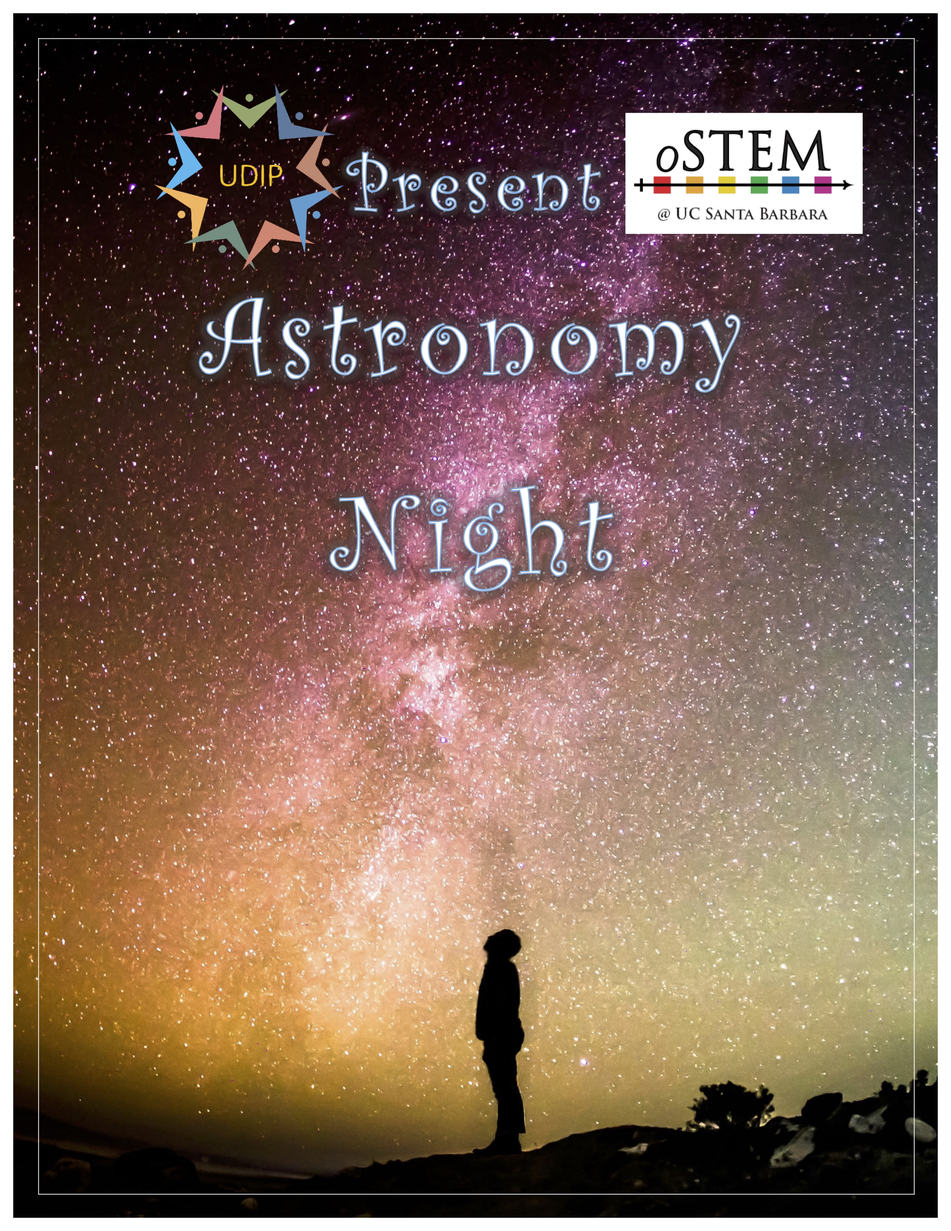
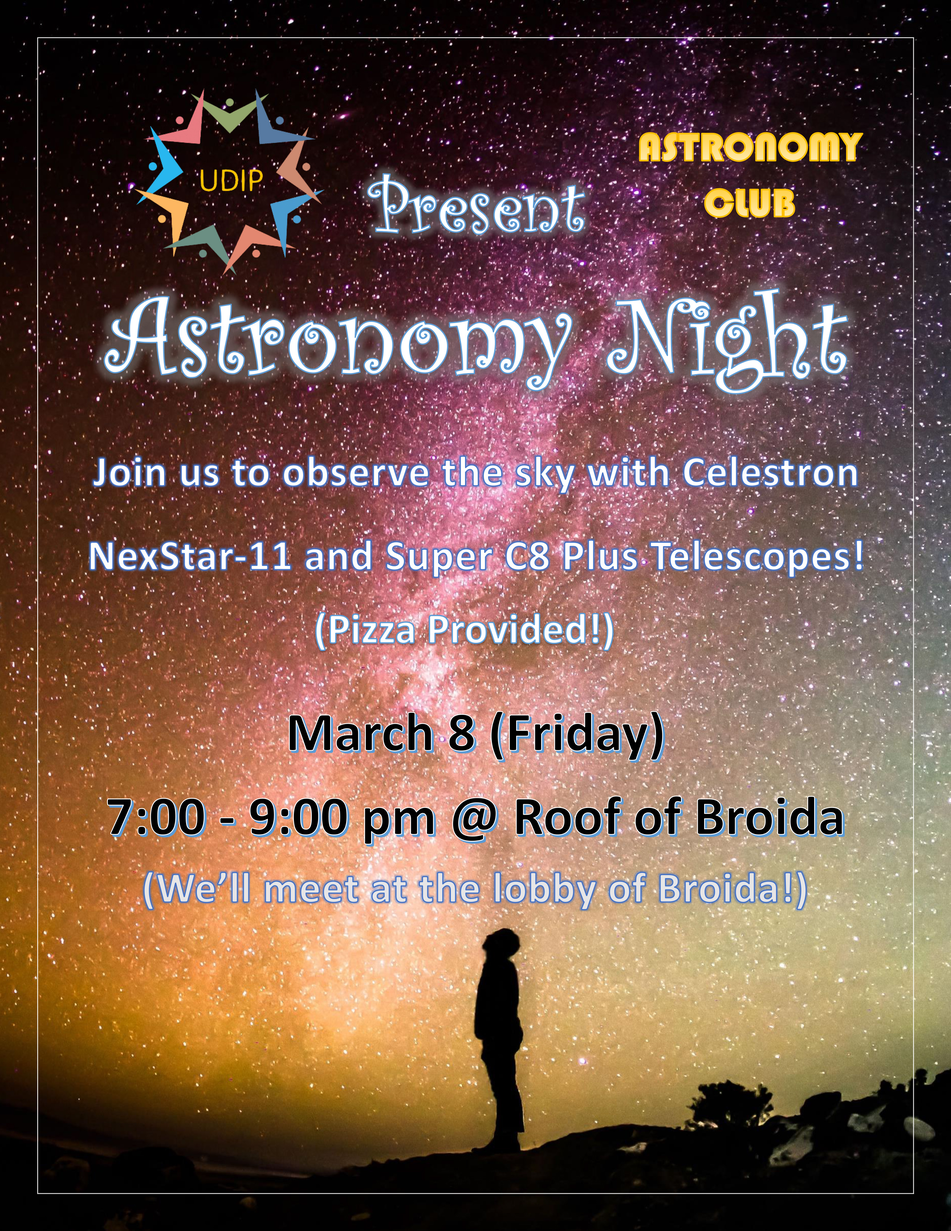
fixed astronomy night, fixed News

diff --git a/public_html/events.html b/public_html/events.html
@@ -103,16 +103,16 @@
 	        	<div class="col-md-4 themed-grid-col">
 		        	<img class="news1-image" src="images/PHSW19.jpg" alt="phs" width="100%">
 		        	<p><br><strong>Thursdays, February 7th - March 7th<br>5:00pm - 6:30pm<br></strong>
-	        		<br>Develop an efficient coding workflow that prepares you for physics research, graduate school, or industry. In six 90-minute sessions, the PHS will teach productive programming practices in an informal setting, and produce a streamlined computing environment for file system navigation (bash), text editing (vim), numerical simulations (python), and report typesetting (LaTeX). All operating systems welcome (if using Windows 10, install Windows Subsystem for Linux before the meeting). All physics undergraduates welcome, especially freshmen/sophomore students that want to learn computing tools relevant for research.<br><br>Want a sneak peek of material, miss a week's lesson, or want to follow along on your own? All PHS guides are self-contained and freely available at <a href="github.com/erijones/phs">github.com/erijones/phs.</a><br><br>Questions?
+	        		<br>Develop an efficient coding workflow that prepares you for physics research, graduate school, or industry. In six 90-minute sessions, the PHS will teach productive programming practices in an informal setting, and produce a streamlined computing environment for file system navigation (bash), text editing (vim), numerical simulations (python), and report typesetting (LaTeX). All operating systems welcome (if using Windows 10, install Windows Subsystem for Linux before the meeting). All physics undergraduates welcome, especially freshmen/sophomore students that want to learn computing tools relevant for research.<br><br>Want a sneak peek of material, miss a week's lesson, or want to follow along on your own? All PHS guides are self-contained and freely available at <a href="https://github.com/erijones/phs">github.com/erijones/phs.</a><br><br>Questions?
 				    <a href="ewj@physics.ucsb.edu" target="_blank" class="btn btn-sm btn-primary">Email now!</a><br></p>
-				</div>
-		        <div class="col-md-4 themed-grid-col">
-		        	<img class="news1-image" src="images/udipwip.jpg" alt="udipwip" width="100%">
-		        	<p><br><strong>Monday, February 25th</strong><br><br><br>Do you have plans for after college? Questions about graduate school? Going into Industry? Totally lost? Want to discuss these questions in an informal, friendly setting with UCSB graduate students who have been through it all? Just want to get to know some other grads or undergrads?<br><br>Then come to the UDIP grad-undergrad student mixer!<br><br>This quarter there will be a mixer for graduate and undergraduate students. This is an excellent opportunity to meet and mingle with the brightest minds UCSB has to offer! There will be activities and free food!<br></p>
-				    </div>
+				  </div>
+	        <div class="col-md-4 themed-grid-col">
+	        	<img class="news1-image" src="images/udipwip.jpg" alt="udipwip" width="100%">
+	        	<p><br><strong>Monday, February 25th</strong><br><br><br>Do you have plans for after college? Questions about graduate school? Going into Industry? Totally lost? Want to discuss these questions in an informal, friendly setting with UCSB graduate students who have been through it all? Just want to get to know some other grads or undergrads?<br><br>Then come to the UDIP grad-undergrad student mixer!<br><br>This quarter there will be a mixer for graduate and undergraduate students. This is an excellent opportunity to meet and mingle with the brightest minds UCSB has to offer! There will be activities and free food!<br></p>
+			    </div>
 			    <div class="col-md-4 themed-grid-col">
 		        	<img class="news1-image" src="images/udipastro.jpg" alt="udipastro" width="100%">
-		        	<p><br><strong>Friday, March 8th</strong><br><br><br>Come join UDIP and oSTEM for a night under the stars! Astronomy Night is held every quarter. 
+		        	<p><br><strong>Friday, March 8th</strong><br><br><br>Come join UDIP and the Astronomy Club for a night under the stars! Astronomy Night is held every quarter. 
 		        	<br><br>We will be using the Physics Department's Celestron NexStar-11 and Super C8 Plus telescopes to observe the sky. Food will be provided. It will be cold, so dress warmly!<br></p>
 		        </div>
 	      	</div>	      

diff --git a/public_html/news.html b/public_html/news.html
@@ -36,7 +36,7 @@
 	</head>
 	<body>
 
-<<!--===== NAVBAR =====-->
+<!--===== NAVBAR =====-->
     <nav class="navbar-wrapper">
       <div class="container">
         <nav class="navbar navbar-expand-lg navbar-light" style="background-color: #FFFFFF;" id="UDIPnavbar">
@@ -92,11 +92,11 @@
 	    	<hr class="featurette-divider">
       		<div class="row featurette">
 		    	<div class="col-md-7">
-			      	<h1 class="heading">Recent News</h1>
-			      	<p class="lead">Winter 2019</p>
-			    </div>
+			      <h1 class="heading">Recent News</h1>
+			      <p class="lead">Winter 2019</p>
+        </div>
 			</div>
-	      	<!--DIVIDER-->
+      <!--DIVIDER-->
 	      	<h2 class="mt-4"></h2>
 	      	<p><!--Text--></p>
 	      	<div class="row mb-3">
@@ -113,12 +113,12 @@
 	      		</div>
       		</div>	      
     	</div> <!-- /container -->
-  	</main>
+  </main>
 
 <!--===== FOOTER =====-->
 	<footer class="footer">
 	    <div class="container">
-		    <div id="wrap">
+		      <div id="wrap">
 	        	<div id="main" class="container clear-top">
 	          		<hr class="featurette-divider">
 	            	<p class="pull-right"><a href="#">Back to top</a></p>
